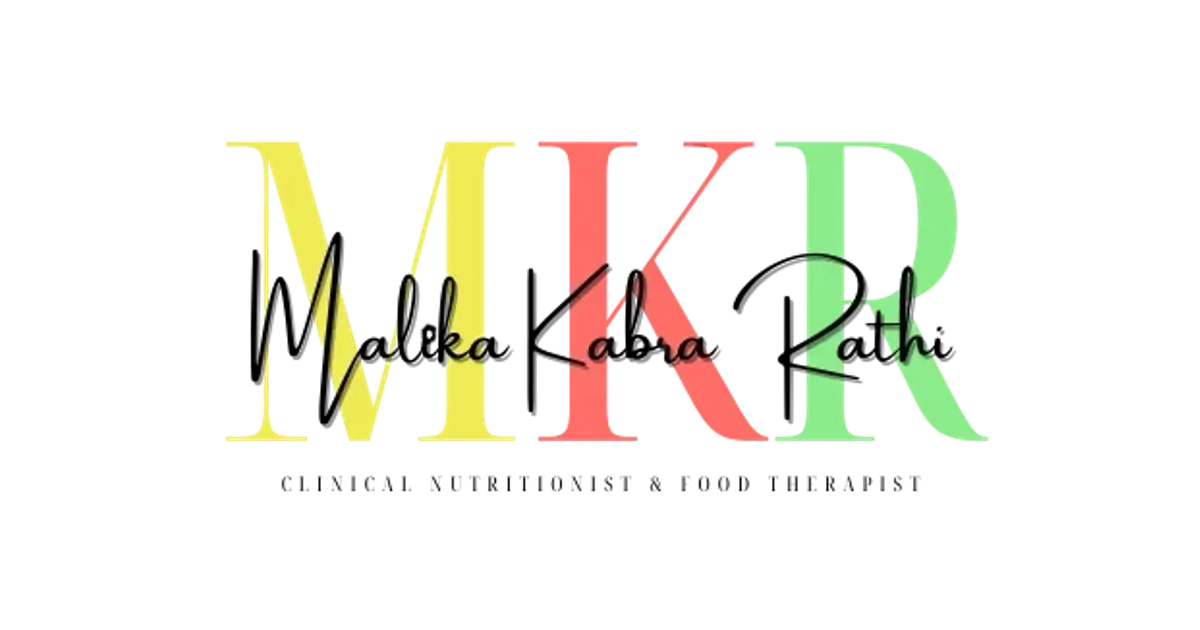
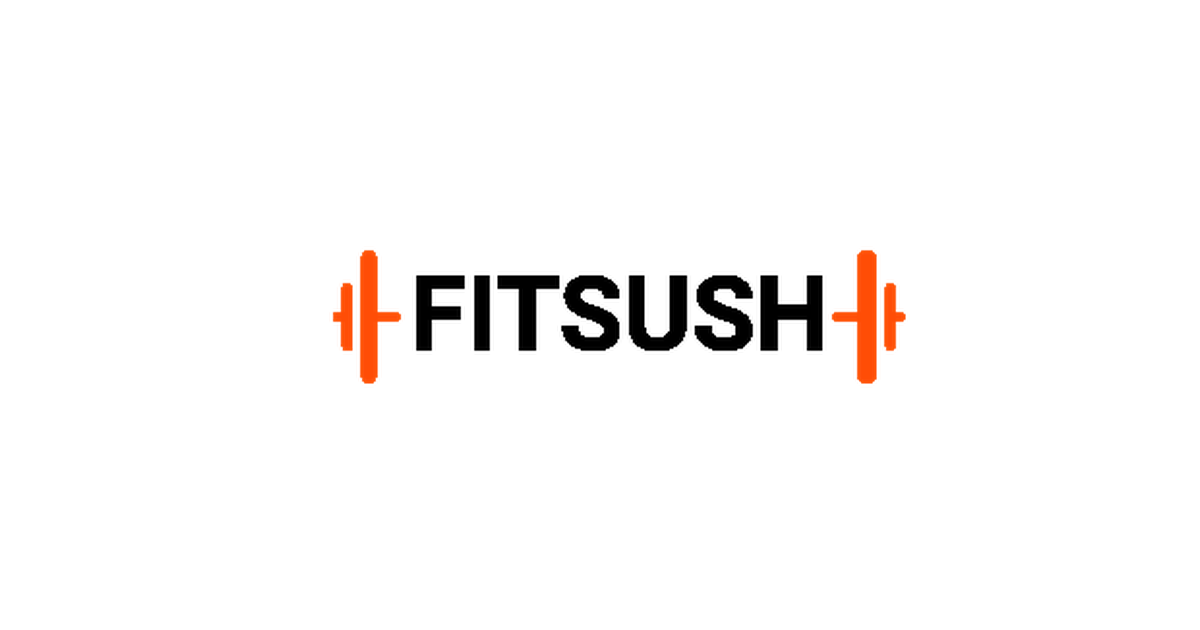
feat: update branding and metadata to reflect "Fitsush" across the application

Changed region(s): [[0.185, 0.2111, 0.8325, 0.7238], [0.2158, 0.754, 0.7708, 0.7841], [0.555, 0.3016, 0.5858, 0.3921]]

diff --git a/src/routes/__root.tsx b/src/routes/__root.tsx
@@ -3,7 +3,7 @@ import { Toaster } from "@/components/ui/sonner";
 
 import appCss from "../styles.css?url";
 
-const SITE_URL = "https://intake.malikakabrarathi.com";
+const SITE_URL = "https://intake.fitsush.com";
 const OG_IMAGE_URL = `${SITE_URL}/og-image.png`;
 
 function NotFoundComponent() {
@@ -33,20 +33,20 @@ export const Route = createRootRoute({
     meta: [
       { charSet: "utf-8" },
       { name: "viewport", content: "width=device-width, initial-scale=1" },
-      { title: "MKR Clinic - Client Intake Form" },
-      { name: "description", content: "Personalised nutrition intake by Dr. Malika Kabra Rathi." },
-      { name: "author", content: "MKR Clinic" },
-      { property: "og:title", content: "MKR Clinic - Client Intake Form" },
+      { title: "Fitsush - Client Intake Form" },
+      { name: "description", content: "Personalised nutrition intake by Fitsush." },
+      { name: "author", content: "Fitsush" },
+      { property: "og:title", content: "Fitsush - Client Intake Form" },
       { property: "og:description", content: "Start your personalised nutrition plan in a few thoughtful steps." },
       { property: "og:type", content: "website" },
       { property: "og:url", content: SITE_URL },
-      { property: "og:site_name", content: "MKR Clinic" },
+      { property: "og:site_name", content: "Fitsush" },
       { property: "og:image", content: OG_IMAGE_URL },
       { property: "og:image:width", content: "1200" },
       { property: "og:image:height", content: "630" },
-      { property: "og:image:alt", content: "MKR Clinic - Client Intake Form" },
+      { property: "og:image:alt", content: "Fitsush - Client Intake Form" },
       { name: "twitter:card", content: "summary_large_image" },
-      { name: "twitter:title", content: "MKR Clinic - Client Intake Form" },
+      { name: "twitter:title", content: "Fitsush - Client Intake Form" },
       { name: "twitter:description", content: "Start your personalised nutrition plan in a few thoughtful steps." },
       { name: "twitter:image", content: OG_IMAGE_URL },
     ],

diff --git a/src/styles.css b/src/styles.css
@@ -63,39 +63,39 @@
 
 :root {
   --radius: 0.875rem;
-  /* MKR Clinic — teal (#00a896) brand palette */
+  /* Fitsush — brand orange (#FF4D06) palette */
   --background: oklch(0.984 0.006 140);
   --foreground: oklch(0.22 0.020 248);
   --card: oklch(1 0 0);
   --card-foreground: oklch(0.22 0.020 248);
   --popover: oklch(1 0 0);
   --popover-foreground: oklch(0.22 0.020 248);
-  --primary: oklch(0.62 0.12 187);
+  --primary: oklch(0.65 0.19 38);
   --primary-foreground: oklch(0.99 0.005 140);
-  --secondary: oklch(0.94 0.030 187);
-  --secondary-foreground: oklch(0.30 0.060 187);
+  --secondary: oklch(0.94 0.03 38);
+  --secondary-foreground: oklch(0.30 0.08 38);
   --muted: oklch(0.955 0.010 140);
   --muted-foreground: oklch(0.50 0.016 248);
-  --accent: oklch(0.88 0.055 187);
-  --accent-foreground: oklch(0.28 0.060 187);
+  --accent: oklch(0.88 0.06 38);
+  --accent-foreground: oklch(0.28 0.10 38);
   --destructive: oklch(0.58 0.2 27);
   --destructive-foreground: oklch(0.99 0.005 140);
-  --border: oklch(0.90 0.018 187);
-  --input: oklch(0.90 0.018 187);
-  --ring: oklch(0.62 0.12 187);
-  --chart-1: oklch(0.62 0.12 187);
+  --border: oklch(0.90 0.03 38);
+  --input: oklch(0.90 0.03 38);
+  --ring: oklch(0.65 0.19 38);
+  --chart-1: oklch(0.65 0.19 38);
   --chart-2: oklch(0.70 0.09 95);
   --chart-3: oklch(0.60 0.10 50);
   --chart-4: oklch(0.55 0.08 220);
   --chart-5: oklch(0.65 0.12 320);
   --sidebar: oklch(0.97 0.012 140);
   --sidebar-foreground: oklch(0.22 0.020 248);
-  --sidebar-primary: oklch(0.62 0.12 187);
+  --sidebar-primary: oklch(0.65 0.19 38);
   --sidebar-primary-foreground: oklch(0.99 0.005 140);
-  --sidebar-accent: oklch(0.94 0.030 187);
-  --sidebar-accent-foreground: oklch(0.30 0.060 187);
-  --sidebar-border: oklch(0.90 0.018 187);
-  --sidebar-ring: oklch(0.62 0.12 187);
+  --sidebar-accent: oklch(0.94 0.03 38);
+  --sidebar-accent-foreground: oklch(0.30 0.08 38);
+  --sidebar-border: oklch(0.90 0.03 38);
+  --sidebar-ring: oklch(0.65 0.19 38);
 }
 
 .dark {

diff --git a/src/components/intake/Wizard.tsx b/src/components/intake/Wizard.tsx
@@ -2,7 +2,7 @@ import * as React from "react";
 import { useNavigate } from "@tanstack/react-router";
 import { useServerFn } from "@tanstack/react-start";
 import { ArrowLeft, ArrowRight, Check, Loader2 } from "lucide-react";
-import mkrLogo from "@/mkr-logo.webp";
+import fitsushLogo from "@/fitsush-logo.webp";
 
 import { cn } from "@/lib/utils";
 import { Button } from "@/components/ui/button";
@@ -705,13 +705,13 @@ export function IntakeWizard() {
       {/* Top progress strip */}
       <header className="sticky top-0 z-10 border-b bg-card/95 shadow-sm backdrop-blur">
         <div className="mx-auto max-w-2xl px-4 pt-3 pb-3">
-          {/* MKR Clinic branding */}
+          {/* Fitsush branding */}
           <div className="mb-3 flex items-center justify-between">
             <div className="flex items-center gap-2.5">
-              <img src={mkrLogo} alt="MKR Clinic" className="h-8 w-auto object-contain" />
+              <img src={fitsushLogo} alt="Fitsush" className="h-8 w-auto object-contain" />
               <div className="leading-none">
-                <p className="text-xs font-semibold text-foreground">MKR Clinic</p>
-                <p className="text-[10px] text-muted-foreground">Dr. Malika Kabra Rathi</p>
+                <p className="text-xs font-semibold text-foreground">Fitsush</p>
+                <p className="text-[10px] text-muted-foreground">Nutrition Consultation</p>
               </div>
             </div>
             <span className="text-xs text-muted-foreground">

diff --git a/src/routes/thank-you.$id.tsx b/src/routes/thank-you.$id.tsx
@@ -4,7 +4,7 @@ import { Check } from "lucide-react";
 export const Route = createFileRoute("/thank-you/$id")({
   head: () => ({
     meta: [
-      { title: "Thank you — MKR Clinic" },
+      { title: "Thank you — Fitsush" },
       { name: "robots", content: "noindex" },
     ],
   }),
@@ -20,13 +20,13 @@ function ThankYouPage() {
           <Check className="h-8 w-8" />
         </div>
         <p className="mb-1 text-xs font-semibold uppercase tracking-widest text-primary">
-          MKR Clinic
+          Fitsush
         </p>
         <h1 className="text-2xl font-semibold text-foreground">
           Thank you — we&apos;ve received your intake.
         </h1>
         <p className="mt-3 text-sm text-muted-foreground">
-          Dr. Malika Kabra Rathi&apos;s team will reach out within 24 hours to plan your consultation.
+          The Fitsush team will reach out within 24 hours to plan your consultation.
         </p>
         <div className="mt-6 rounded-2xl bg-secondary/60 p-4 text-left">
           <div className="text-xs font-medium uppercase tracking-wide text-muted-foreground">

diff --git a/src/routes/index.tsx b/src/routes/index.tsx
@@ -4,12 +4,12 @@ import { IntakeWizard } from "@/components/intake/Wizard";
 export const Route = createFileRoute("/")({
   head: () => ({
     meta: [
-      { title: "MKR Clinic - Client Intake Form" },
+      { title: "Fitsush - Client Intake Form" },
       {
         name: "description",
-        content: "A private intake form to prepare your personalised nutrition consultation with Dr. Malika Kabra Rathi.",
+        content: "A private intake form to prepare your personalised nutrition consultation with Fitsush.",
       },
-      { property: "og:title", content: "MKR Clinic - Client Intake Form" },
+      { property: "og:title", content: "Fitsush - Client Intake Form" },
       {
         property: "og:description",
         content: "Start your personalised nutrition plan in a few thoughtful steps.",
